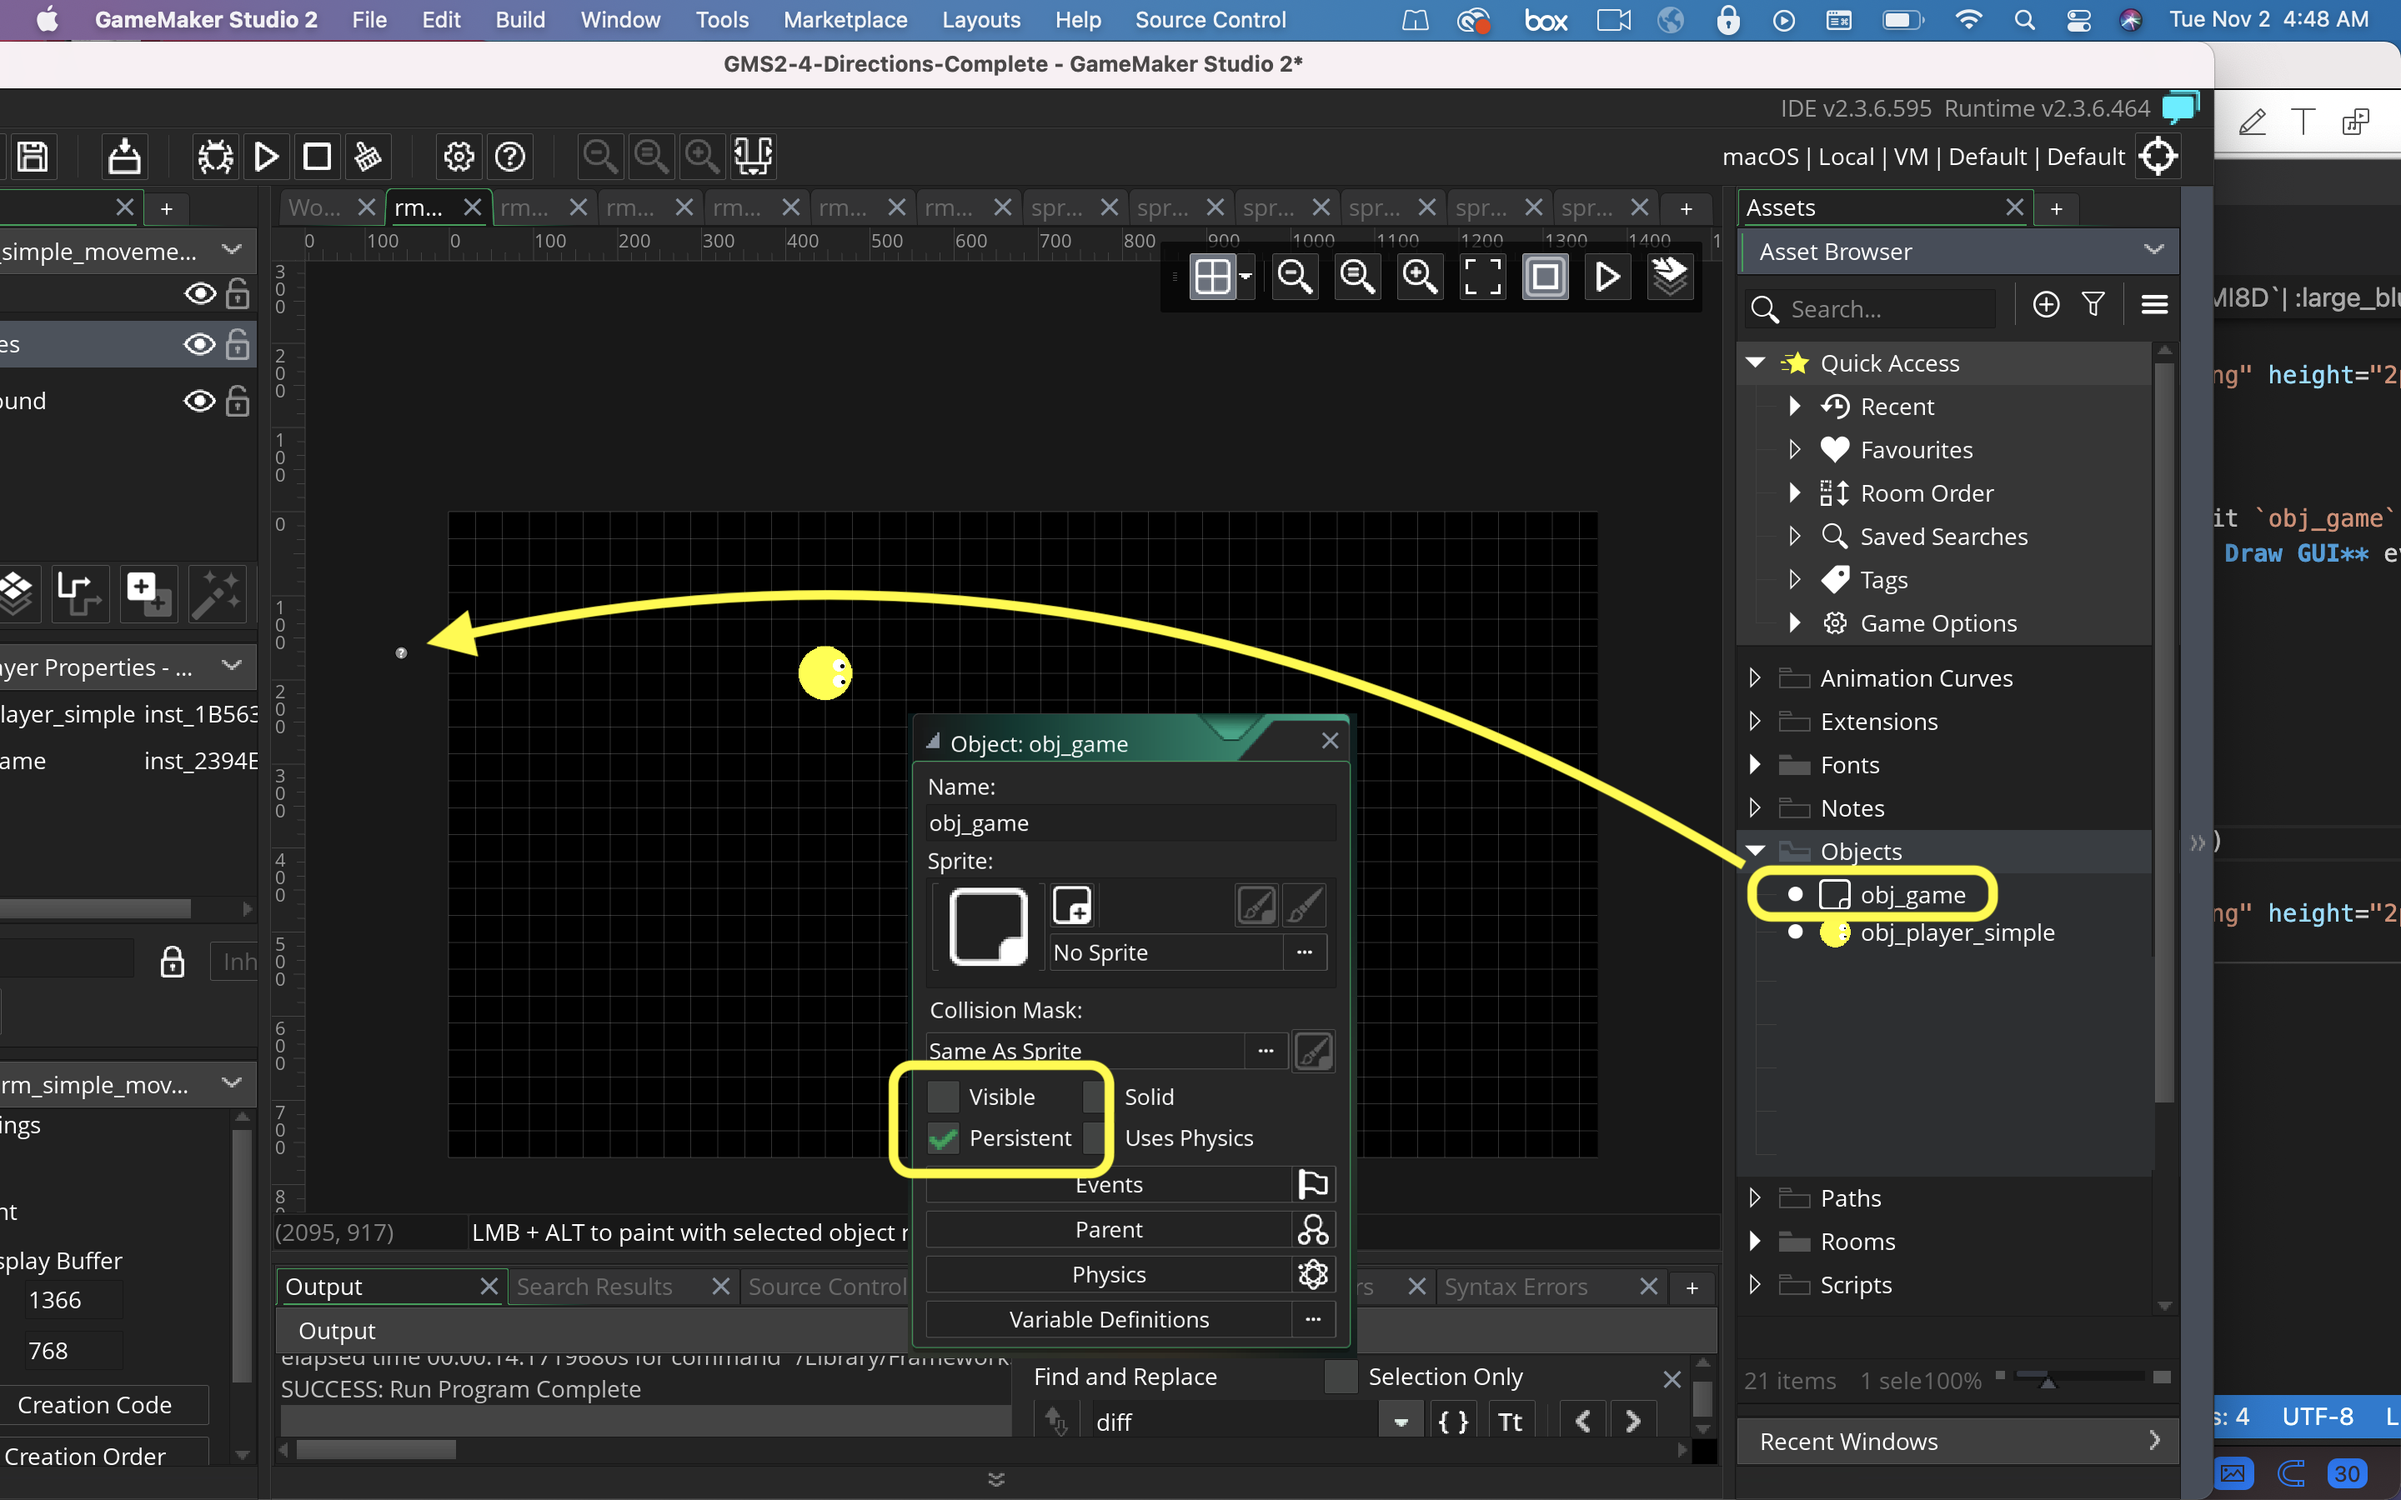
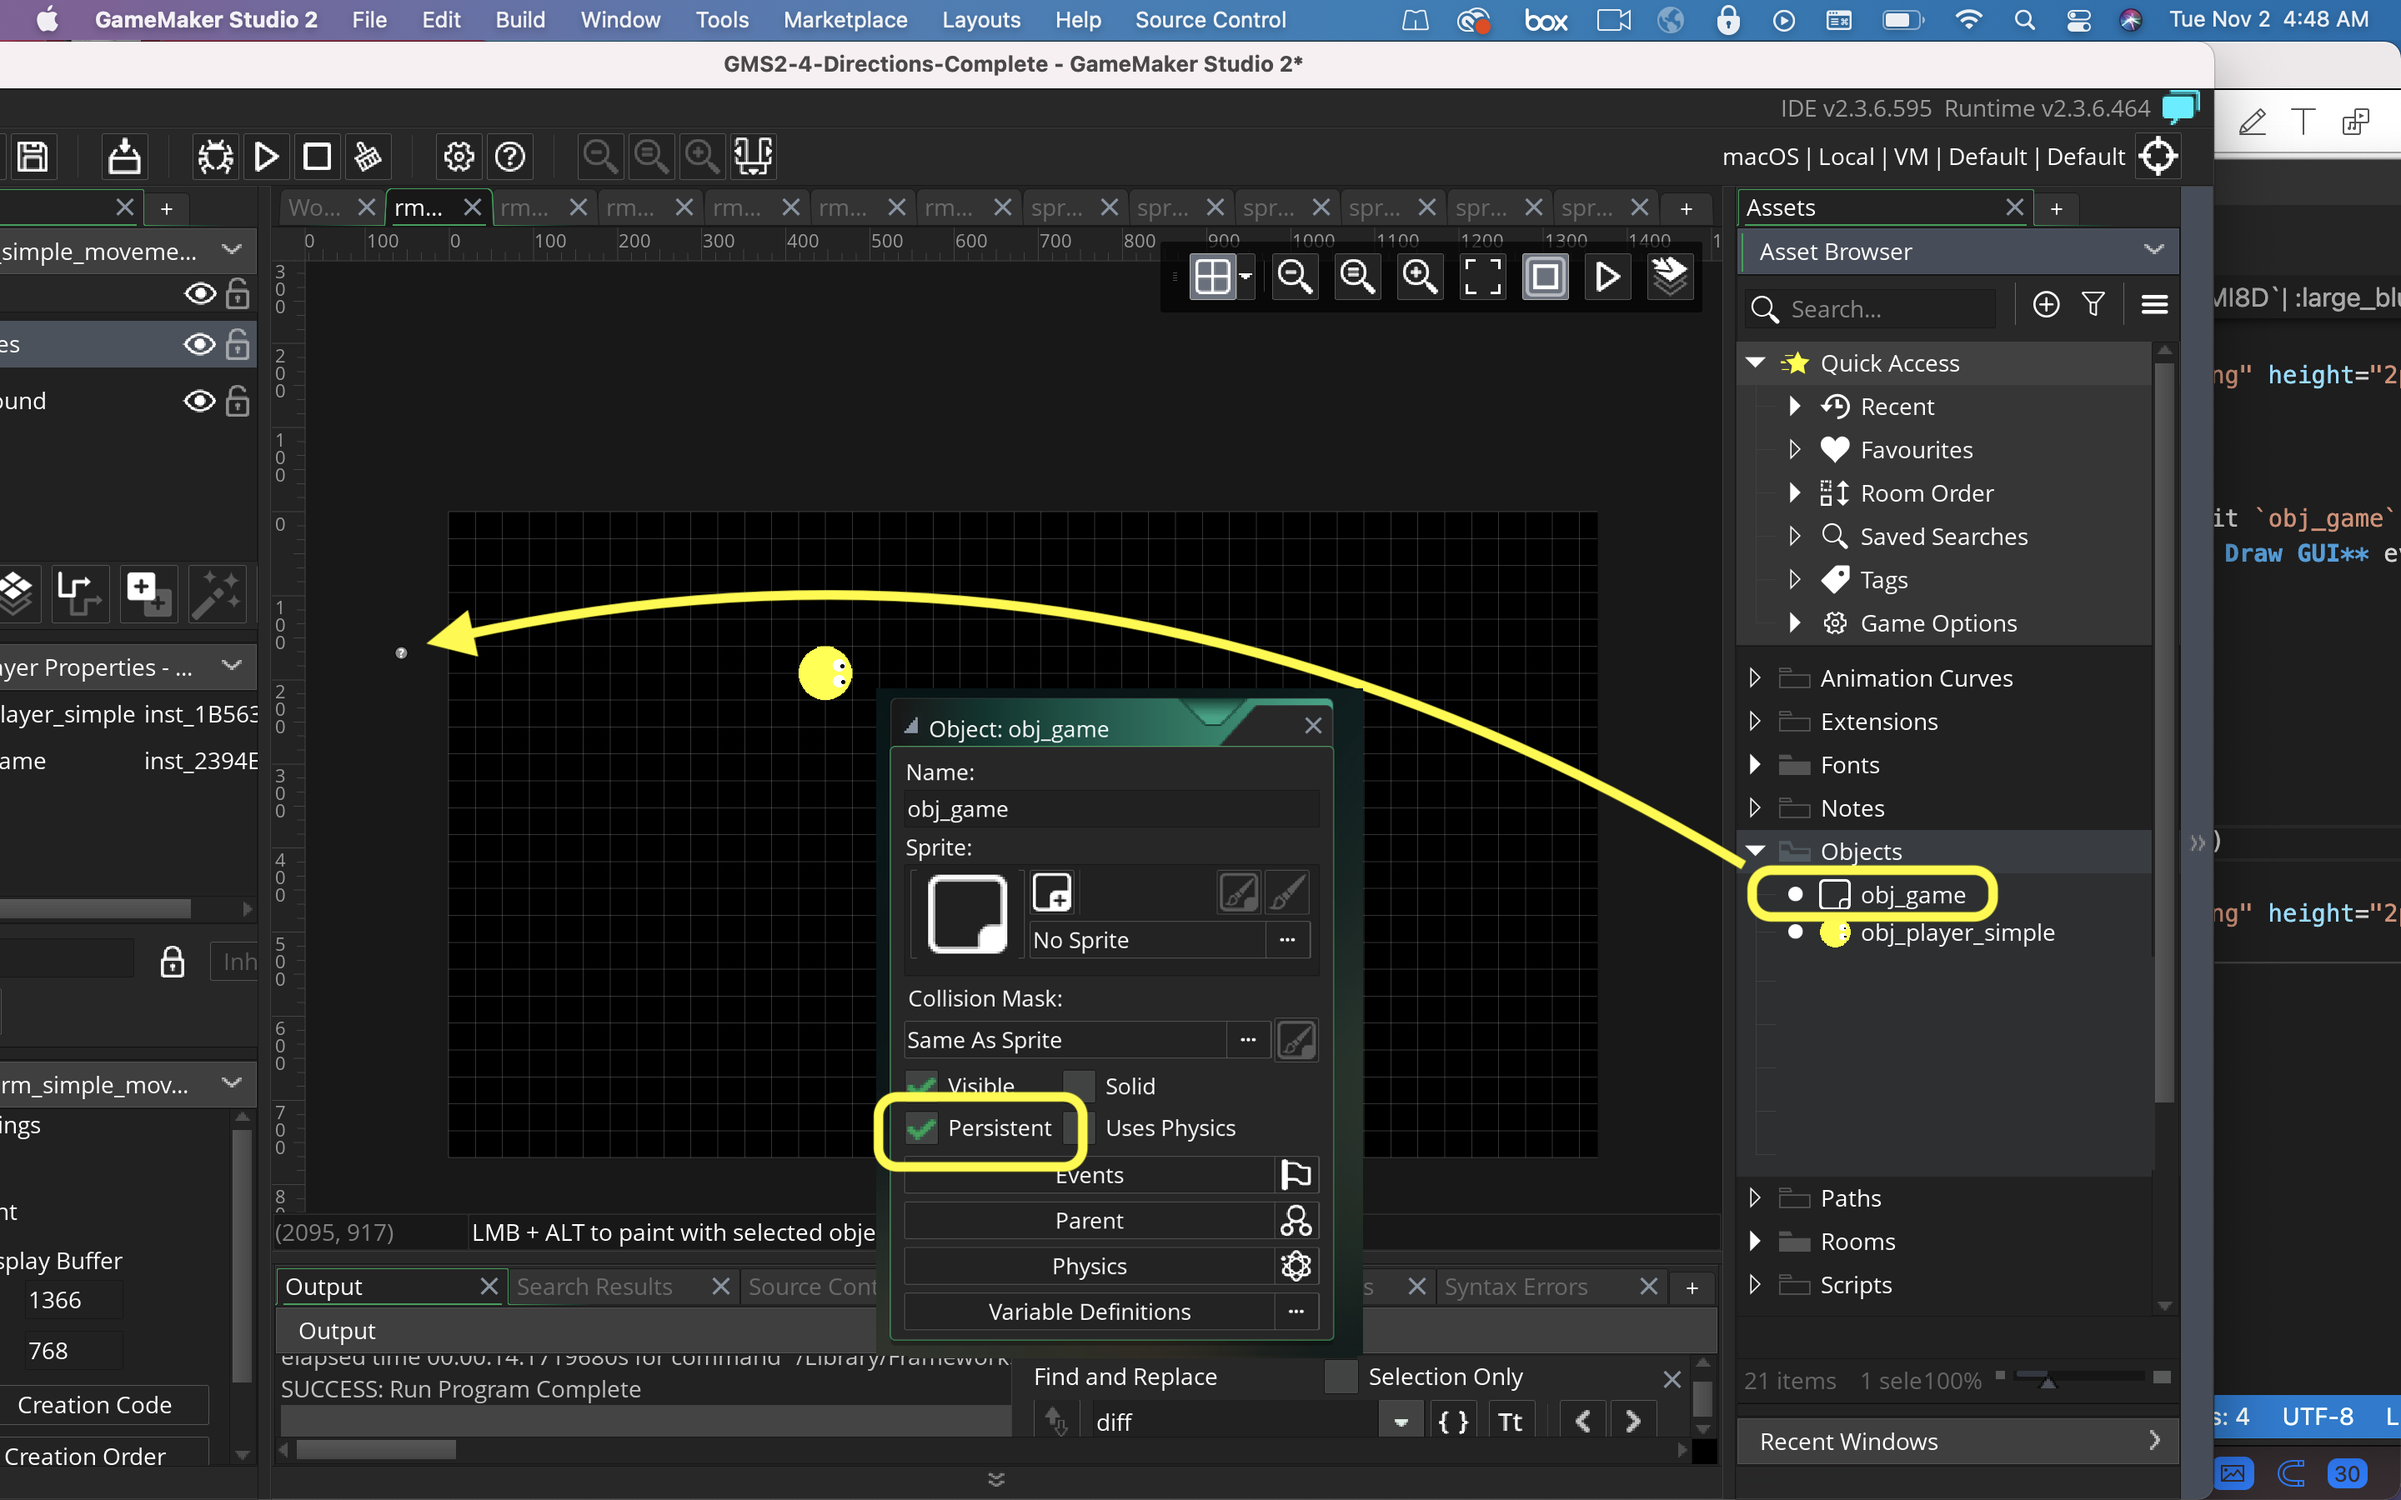
Update updating moving 4 directions

Changed region(s): [[0.3438, 0.4356, 0.5938, 0.9022], [0.5, 0.5911, 0.5625, 0.6533], [0.5, 0.6844, 0.5625, 0.7156]]

diff --git a/simple-movement/README.md b/simple-movement/README.md
@@ -165,7 +165,7 @@ If all you wanted is simple movement you can stop here.  Otherwise lets add some
 
 ##### `Step 16.`\|`MI8D`| :large_blue_diamond: :small_orange_diamond:   :small_blue_diamond: 
 
-Set the **obj_game** to `Persistent` so that it goes from level to level.  Also, it is not meant to render a sprite so turn **Visible** off.  Drag **obj_game** into **rm_simple_movement**.
+Set the **obj_game** to `Persistent` so that it goes from level to level. Drag **obj_game** into **rm_simple_movement**.
 
 ![obj_game is persistent and not visible and is added to room rm_simple_movement](images/persistent.png)
 
@@ -173,19 +173,25 @@ Set the **obj_game** to `Persistent` so that it goes from level to level.  Also,
 
 ##### `Step 17.`\|`MI8D`| :large_blue_diamond: :small_orange_diamond: :small_blue_diamond: :small_blue_diamond:
 
-Now *press* the <kbd>Play</kbd> button in the top menu bar to launch the game. Now we have the movement working how we like it for a quick and simple implementation.
+Now *press* the <kbd>Play</kbd> button in the top menu bar to launch the game. You should now have a title!
 
-![run game and move player in 8 directoins](images/FInalTurning.gif)
+![title in rm_simple_movement](images/title.png)
 
 <img src="https://via.placeholder.com/500x2/45D7CA/45D7CA" alt="drawing" height="2px" alt = ""/>
 
 ##### `Step 18.`\|`MI8D`| :large_blue_diamond: :small_orange_diamond: :small_blue_diamond: :small_blue_diamond: :small_blue_diamond:
 
+Create another **Font** and call it `fnt_hud`.  Make the **Size** `12` and **Style** `normal`.  Press the <kbd>Add Event</kbd> and select a **Draw | Draw GUI** event.
+
+* 
+![hud font drawing hspeed and vspeed in obj_player](images/playerHUD.png)
+
+
+___
+
 Select the **File | Save Project** then press **File | Quit** to make sure everything in the game is saved. If you are using **GitHub** open up **GitHub Desktop** and add a title and longer description (if necessary) and press the <kbd>Commit to main</kbd> button. Finish by pressing **Push origin** to update the server with the latest changes.
 
 ![save, quit, commit and push to github](images/GitHub.png)
-___
-
 
 <img src="https://via.placeholder.com/1000x4/dba81a/dba81a" alt="drawing" height="4px" alt = ""/>
 
